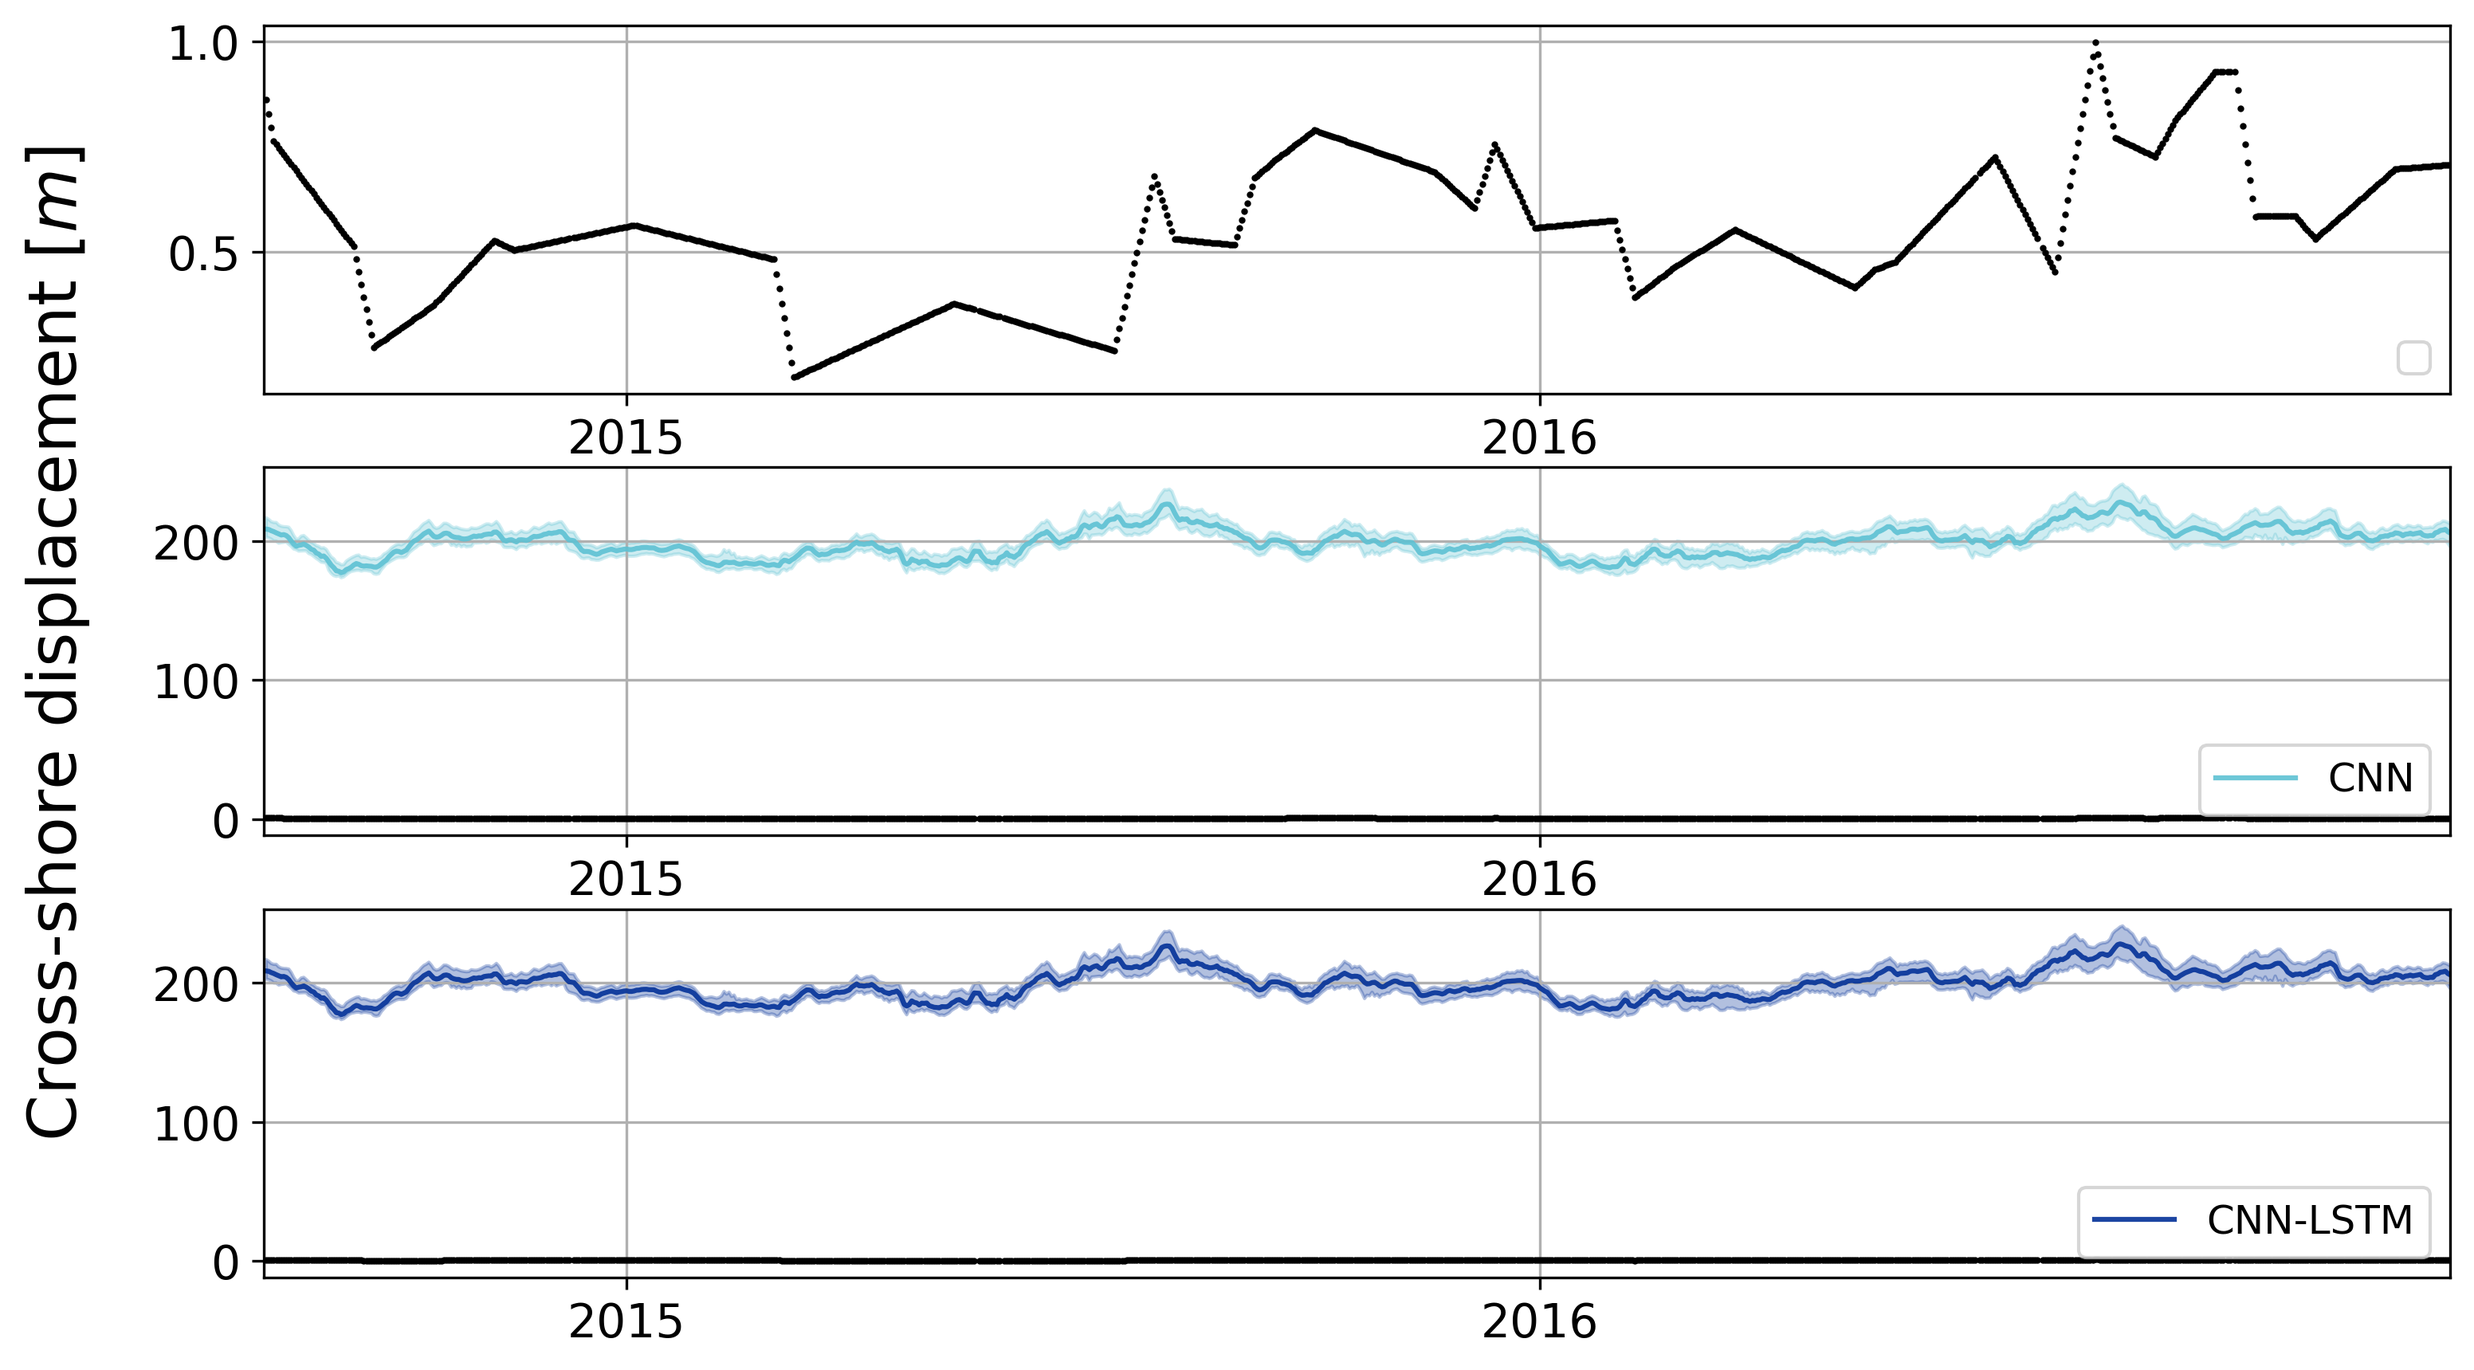
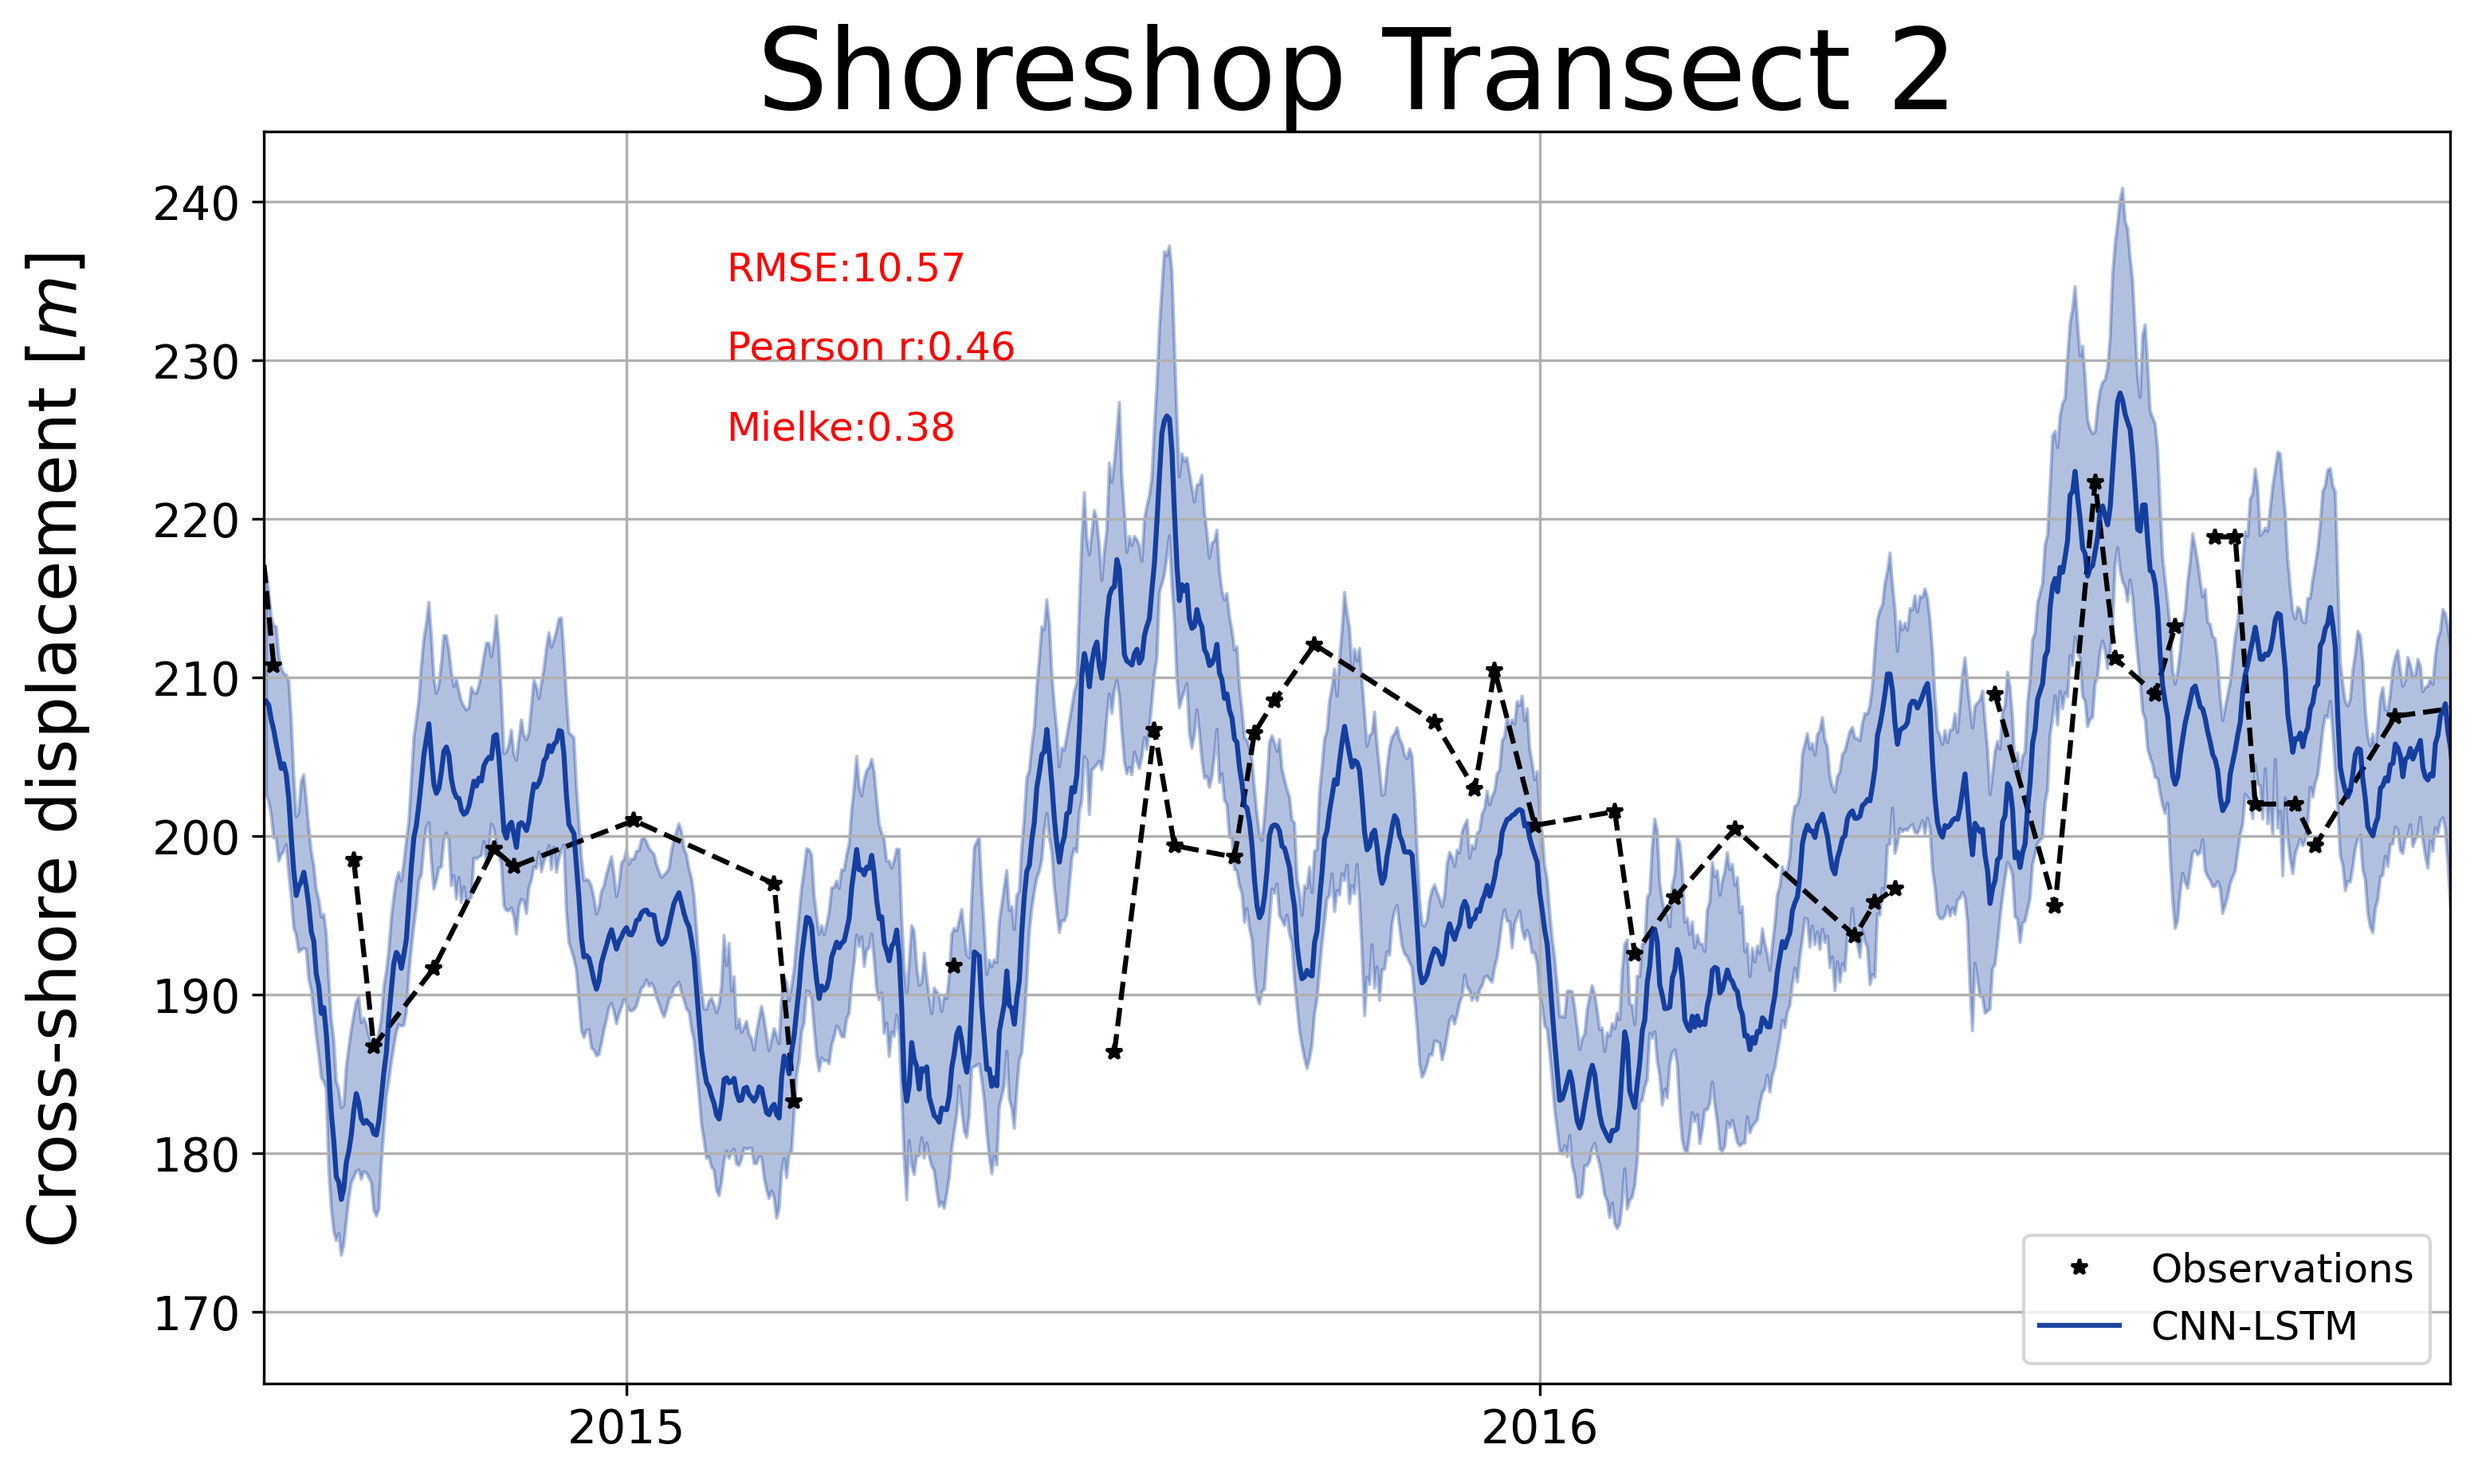
Better time series plot
Pretty plot done. Need to add standard deviation to the runs.

diff --git a/1run_models/plot_results.py b/1run_models/plot_results.py
@@ -17,6 +17,12 @@ from matplotlib.colors import LinearSegmentedColormap
 import pandas as pd
 import numpy as np
 
+
+import matplotlib.pyplot as plt
+import matplotlib.dates as mdates
+from datetime import date
+from scipy.stats import pearsonr
+
 #%%
 #Script's location:
 abs_path= os.path.abspath(os.getcwd())
@@ -46,11 +52,84 @@ inputs = inputs.set_index(['Datetime'])
 idx_intsct= inputs.index.intersection(mat_hyb.index)
 inputs= inputs[idx_intsct [0]: idx_intsct[-1]]
 
+
 ###########################PLOTS###############################################
-taylor_plot(mat_hyb,mat_cnn,inputs,cvd_fmap)
 
-ts_plot(mat_hyb,mat_cnn,inputs,cvd_fmap)
+#%%Load observations
+rt_dir='/home/egom802/Documents/GitHub/ShoreModel_Benchmark'
+os.chdir(rt_dir)
 
-# heat_plot(mat_hyb,mat_cnn,inputs)
+fp = 'datasets' #File path
+fn_tran =  'transects_coords.csv' #File name for transects
+target_trans = ['Transect2', 'Transect5', 'Transect8'] # Target transects for evaluation
 
-coverage_plot(mat_hyb,mat_cnn,inputs)
+
+
+fn_obs =  'shorelines_obs.csv' # Satellite data File name for shoreline observations
+#varying degrees of rmse between transects.  Transects 1,3,4 and 8 have the smallest rmse
+
+
+
+df_obs = pd.read_csv(os.path.join(fp, 'shorelines', fn_obs), index_col='Datetime')
+df_obs.index = pd.to_datetime(df_obs.index)
+
+# taylor_plot(mat_hyb,mat_cnn,inputs,cvd_fmap)
+
+# ts_plot(mat_hyb,mat_cnn,inputs,cvd_fmap)
+
+# # heat_plot(mat_hyb,mat_cnn,inputs)
+
+# coverage_plot(mat_hyb,mat_cnn,inputs)
+os.chdir(abs_path)
+#%%
+
+# mat_in[ plot_date :mat_in.index[-1]].yout.plot()
+ax=mat_hyb.plot()
+#Rescale target shoreline time series
+df_obs['2014-08':'2018-12-30'].Transect2.plot(ax=ax)
+
+# inputs= df_obs['2014-08':'2018-12-30'].Transect2.resample('D').interpolate(method='linear')
+inputs= df_obs['2014-08':'2018-12-30'].Transect2
+
+#%%
+lower= mat_cnn.min(axis=1)
+upper= mat_cnn.max(axis=1)
+mean= mat_cnn.mean(axis=1)
+lower_hyb= mat_hyb.min(axis=1)
+upper_hyb= mat_hyb.max(axis=1)
+mean_hyb= mat_hyb.mean(axis=1)
+######################PLOT FIGURE 7########################################
+fig,ax = plt.subplots(figsize=(11.8,6.8))
+fs= 20
+fs_tk= 14
+fs_leg= 12
+colors = cvd_fmap(np.linspace(0, 1, 4))
+
+#CNN-LSTM ensemble
+ax.plot(inputs,'--k', markersize=5)
+ax.plot(inputs,'*k', markersize=5, label="Observations")
+ax.fill_between(mat_hyb.index, y1=lower_hyb, y2=upper_hyb, 
+             alpha=0.3, color=colors[3])
+ax.plot(mat_hyb.index, mean_hyb, alpha=0.9,
+              color=colors[3], label= "CNN-LSTM")
+ax.xaxis.set_major_locator(mdates.YearLocator())
+ax.xaxis.set_major_formatter(mdates.DateFormatter('%Y'))
+ax.set_xlim([date(2014, 8, 9), date(2016, 12, 30)])
+ax.grid()
+ax.legend(loc='lower right',fontsize=fs_leg)
+ax.tick_params(axis='both', which='major', labelsize=fs_tk)
+
+plt.rcParams.update({'font.size': 28})
+fig.text(0.04, 0.5, 'Cross-shore displacement ' r'$[m]$', va='center',
+     rotation='vertical',fontsize=fs)
+plt.title('Shoreshop Transect 2')
+
+# Add text at a specific point in the plot
+text_date = pd.Timestamp('2015-02-10')
+plt.text(text_date, 235, 'RMSE:' + str(round(np.mean(rmse_arr),2)), fontsize=12, color='red')
+plt.text(text_date, 230, 'Pearson r:' + str(round(np.mean(pear_arr),2)), fontsize=12, color='red')
+plt.text(text_date, 225, 'Mielke:' + str(round(np.mean(mielke_arr),2)), fontsize=12, color='red')
+
+#Uncomment to save plot
+# plt.savefig('./figures/Fig7.png',
+#             bbox_inches='tight',dpi=300)

diff --git a/1run_models/run_cnn-lstm_shoreshop.py b/1run_models/run_cnn-lstm_shoreshop.py
@@ -295,9 +295,9 @@ yresults.to_csv('./1run_models/output/Hybrid_ensemble.csv')
 mat_in.to_csv('./1run_models/output/inputs_target.csv')
 
 #Metrics 
-# rmse_arr=np.array([math.sqrt(mean_squared_error(yresults[colname].values,testY)) for (index, colname) in enumerate(yresults)])
-# pear_arr=np.array([scipy.stats.pearsonr(yresults[colname].values,testY[:,0])[0] for (index, colname) in enumerate(yresults)])
-# mielke_arr=np.array( [index_mielke(yresults[colname].values,testY[:,0]) for (index, colname)
+rmse_arr=np.array([math.sqrt(mean_squared_error(yresults[colname].values,testY)) for (index, colname) in enumerate(yresults)])
+pear_arr=np.array([scipy.stats.pearsonr(yresults[colname].values,testY[:,0])[0] for (index, colname) in enumerate(yresults)])
+mielke_arr=np.array( [index_mielke(yresults[colname].values,testY[:,0]) for (index, colname) in enumerate(yresults)])
 
 
 
